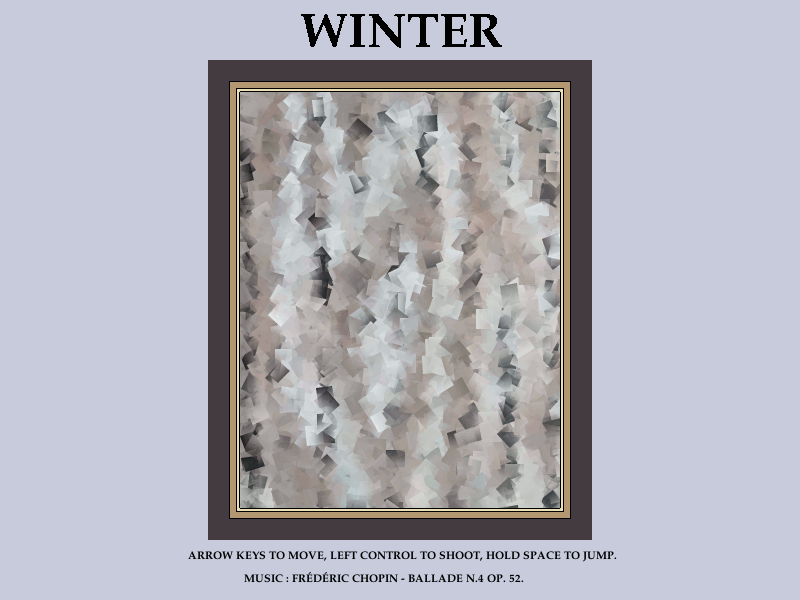
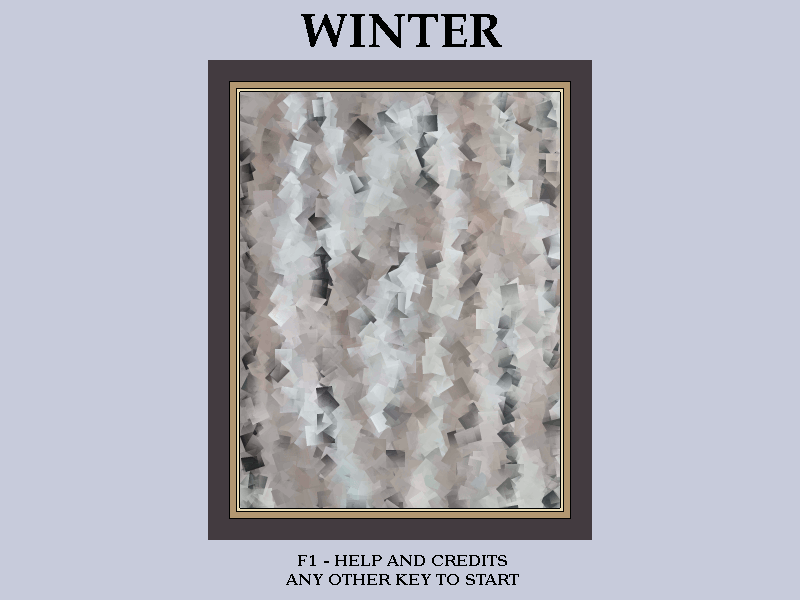
Credits, still needs the title and door things

Changed region(s): [[0.25, 0.9, 0.7812, 0.99]]

diff --git a/class/controladores/controlador_intro.cpp b/class/controladores/controlador_intro.cpp
@@ -2,16 +2,22 @@
 
 Controlador_intro::Controlador_intro(Director_estados& d, Localizador& loc, Configuracion_base& config)
 	:Controlador_base(d, loc, config),
-	rep_fondo(DLibV::Gestor_texturas::obtener(App::Recursos_graficos::rt_intro))
+	rep_fondo(DLibV::Gestor_texturas::obtener(App::Recursos_graficos::rt_intro)),
+	rep_credits(DLibV::Gestor_texturas::obtener(App::Recursos_graficos::rt_credits))
 {
 	rep_fondo.establecer_posicion(0, 0, 800, 600);
 	rep_fondo.establecer_modo_blend(DLibV::Representacion::BLEND_ALPHA);
+
+	rep_credits.establecer_posicion(0, 0, 800, 600);
+	rep_credits.establecer_modo_blend(DLibV::Representacion::BLEND_ALPHA);
+	rep_credits.establecer_alpha(0);
 }
 
 void Controlador_intro::reset() {
 
 	tiempo=0.f;
 	alpha=0;
+	state=states::fadein;
 }
 
 void Controlador_intro::preloop(Input_base& input, float delta)
@@ -33,21 +39,134 @@ void Controlador_intro::loop(Input_base& input, float delta)
 	}
 	else
 	{
-		tiempo+=delta;
-		alpha=(tiempo * 255) / 2.0f;
-		if(alpha > 255) alpha=255;
+		switch(state) {
 
-		rep_fondo.establecer_alpha(alpha);
-
-		if(input.hay_eventos_teclado_down() && alpha==255)
-		{
-			solicitar_cambio_estado(Director_estados::t_estados::juego);
+			case states::fadein:
+				loop_fadein(input, delta);
+			break;
+			case states::fadeout:
+				loop_fadeout(input, delta);
+			break;
+			case states::title:
+				loop_title(input, delta);
+			break;
+			case states::to_credits:
+				loop_to_credits(input, delta);
+			break;
+			case states::credits:
+				loop_credits(input, delta);
+			break;
+			case states::to_title:
+				loop_to_title(input, delta);
+			break;
 		}
 	}
+}
+
+void Controlador_intro::loop_fadein(
+	Input_base& input,
+	float delta
+) {
+
+	tiempo+=delta;
+	alpha=(tiempo * 255) / 2.0f;
+	if(alpha >= 255) {
+
+		tiempo=0.f;
+		alpha=255;
+		state=states::title;
+	}
+
+	rep_fondo.establecer_alpha(alpha);
+	rep_credits.establecer_alpha(0);
+}
+
+void Controlador_intro::loop_fadeout(
+	Input_base& input,
+	float delta
+) {
+
+	tiempo+=delta;
+	alpha=(tiempo * 255) / 2.0f;
+	if(alpha >= 255) {
+
+		tiempo=0.f;
+		alpha=255;
+		state=states::fadein;
+		solicitar_cambio_estado(Director_estados::t_estados::juego);
+	}
+
+	rep_fondo.establecer_alpha(255-alpha);
+	rep_credits.establecer_alpha(0);
+}
+
+void Controlador_intro::loop_title(
+	Input_base& input,
+	float delta
+) {
+
+	if(input.es_input_down(Input::I_HELP)) {
+
+		state=states::to_credits;
+		Audio::insertar_sonido(DLibA::Estructura_sonido((DLibA::Gestor_recursos_audio::obtener_sonido(App::Recursos_audio::rs_wind))));
+	}
+	else if(input.hay_eventos_teclado_down()) {
+
+		state=states::fadeout;
+	}
+}
+
+void Controlador_intro::loop_credits(
+	Input_base& input,
+	float delta
+) {
+
+	if(input.hay_eventos_teclado_down() && alpha==255)
+	{
+		Audio::insertar_sonido(DLibA::Estructura_sonido((DLibA::Gestor_recursos_audio::obtener_sonido(App::Recursos_audio::rs_wind))));
+		state=states::to_title;
+	}
+}
+
+void Controlador_intro::loop_to_credits(
+	Input_base& input,
+	float delta
+) {
+
+	tiempo+=delta;
+	alpha=(tiempo * 255) / 2.0f;
+	if(alpha > 255) {
+
+		tiempo=0.f;
+		alpha=255;
+		state=states::credits;
+	}
+
+	rep_credits.establecer_alpha(alpha);
+	rep_fondo.establecer_alpha(255-alpha);
+}
+
+void Controlador_intro::loop_to_title(
+	Input_base& input,
+	float delta
+) {
+
+	tiempo+=delta;
+	alpha=(tiempo * 255) / 2.0f;
+	if(alpha > 255) {
+
+		tiempo=0.f;
+		alpha=255;
+		state=states::title;
+	}
+
+	rep_fondo.establecer_alpha(alpha);
+	rep_credits.establecer_alpha(255-alpha);
 }
 
 void Controlador_intro::dibujar(DLibV::Pantalla& pantalla)
 {
 	pantalla.limpiar(0, 0, 0, 255);
 	rep_fondo.volcar(pantalla);
-} 
+	rep_credits.volcar(pantalla);
+}

diff --git a/class/controladores/controlador_intro.h b/class/controladores/controlador_intro.h
@@ -20,7 +20,19 @@ class Controlador_intro:public Controlador_base
 
 	private:
 
-	DLibV::Representacion_bitmap_estatica rep_fondo;
+	void 			loop_fadein(Input_base& input, float delta);
+	void 			loop_fadeout(Input_base& input, float delta);
+	void 			loop_title(Input_base& input, float delta);
+	void 			loop_to_credits(Input_base& input, float delta);
+	void 			loop_credits(Input_base& input, float delta);
+	void 			loop_to_title(Input_base& input, float delta);
+
+
+	DLibV::Representacion_bitmap_estatica rep_fondo,
+										rep_credits;
+
+	enum class states{fadein, title, to_credits, credits, to_title, fadeout};
+	states state{states::fadein};
 
 	float 				tiempo{0.f};
 	int				alpha{0};

diff --git a/class/app/recursos.h b/class/app/recursos.h
@@ -27,6 +27,7 @@ class Recursos_graficos
 		rt_intro=7,
 		rt_game_over=8,
 		rt_the_end=9,
+		rt_credits=10
 //		rt_title_hub_round_0=10,
 //		rt_title_hub_round_1=11,
 //		rt_title_hub_round_2=12,
@@ -53,7 +54,8 @@ class Recursos_audio
 		rs_item=3,
 		rs_nivel_finalizado=4,
 		rs_salto=5,
-		rs_perder_vida=6
+		rs_perder_vida=6,
+		rs_wind=7
 	};
 };
 

diff --git a/class/framework/derivada/input.cpp b/class/framework/derivada/input.cpp
@@ -9,4 +9,6 @@ void Input::configurar()
 
 	mapa_teclado.insert(std::make_pair(I_IZQUIERDA, SDL_SCANCODE_LEFT));
 	mapa_teclado.insert(std::make_pair(I_DERECHA, SDL_SCANCODE_RIGHT));
+
+	mapa_teclado.insert(std::make_pair(I_HELP, SDL_SCANCODE_F1));
 }

diff --git a/class/framework/derivada/input.h b/class/framework/derivada/input.h
@@ -33,6 +33,7 @@ I_IZQUIERDA,
 I_DERECHA,
 I_ARRIBA,
 I_ABAJO,
+I_HELP
 
 };
 
@@ -41,7 +42,7 @@ I_ABAJO,
 
 	public:
 
-	virtual void configurar();	
+	virtual void configurar();
 	Input():Input_base() {}
 };
 

diff --git a/README.md b/README.md
@@ -8,25 +8,18 @@ This project depends on some very specific commits of some old libraries. Long s
 2) update the dependencies/tools makefile so the libdansdl2 paths match what you built in step 1
 3) build dependencies/tools
 4) update the main makefile so the dependencies point at these things you just built.
-5) build the main application.	
+5) build the main application.
 
 # TODO:
 
-- Add credits+controls controller
-	- Same background
-	- No game title
-	- Info inside the frame.
 - Do the map title thing.
 	- Fades in, stays, fades out. Use the linear function thing and be done.
-	- The hub 
+	- The hub
 		- A world unhinged
 		- A world with no color
 		- A world in silence
-	
 - Increment minor version number.
 - Add symbols over the hub doors.
-- Maybe one last level? What would be point?
-- Feedback form when the game is done?
 
 # Notes to self.
 
